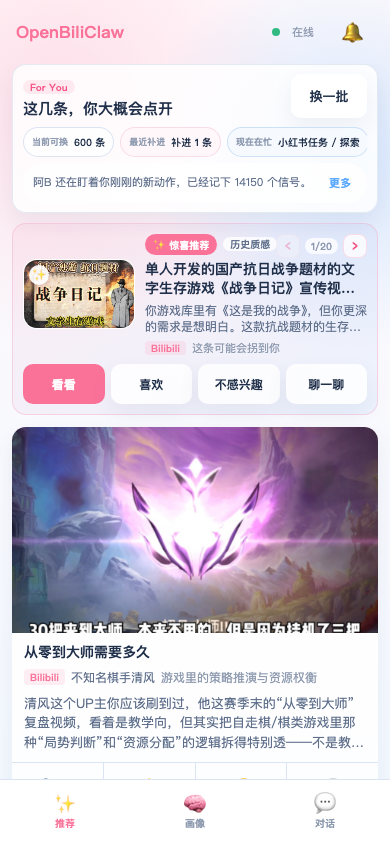
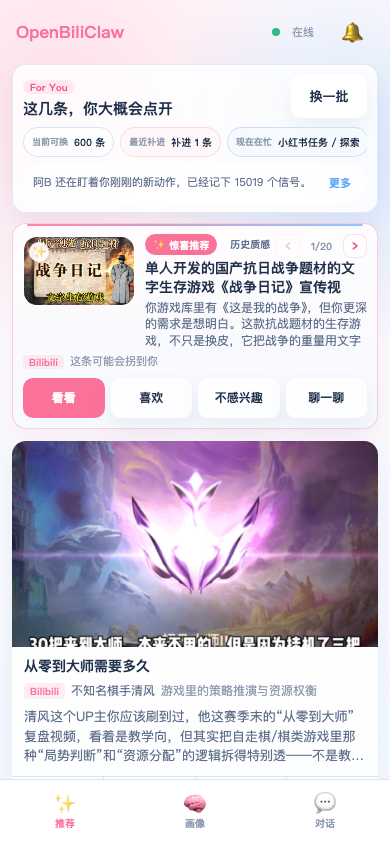
fix: wrap mobile delight reason around cover

Changed region(s): [[0.0308, 0.1848, 0.9846, 0.9242]]

diff --git a/src/openbiliclaw/web/css/app.css b/src/openbiliclaw/web/css/app.css
@@ -406,14 +406,20 @@ body {
 }
 
 .delight-compact {
-  display: grid;
-  grid-template-columns: auto minmax(0, 1fr);
-  gap: 10px;
-  align-items: center;
+  display: block;
+  min-height: 76px;
+}
+
+.delight-compact::after {
+  content: "";
+  display: block;
+  clear: both;
 }
 
 .delight-thumb {
   width: 112px;
+  float: left;
+  margin: 2px 10px 6px 0;
   position: relative;
   overflow: hidden;
   border-radius: 14px;
@@ -468,14 +474,6 @@ body {
   display: block;
 }
 
-.delight-copy {
-  min-width: 0;
-  display: flex;
-  flex-direction: column;
-  justify-content: center;
-  gap: 5px;
-}
-
 .delight-kicker-line {
   display: flex;
   align-items: center;
@@ -483,6 +481,7 @@ body {
   min-width: 0;
   padding-right: 78px;
   flex-wrap: wrap;
+  margin-bottom: 4px;
 }
 
 .delight-tag {
@@ -543,10 +542,9 @@ body {
   font-size: 14px;
   font-weight: 800;
   line-height: 1.35;
-  display: -webkit-box;
-  -webkit-line-clamp: 2;
-  -webkit-box-orient: vertical;
+  max-height: 2.7em;
   overflow: hidden;
+  margin-bottom: 3px;
 }
 
 .delight-hook-badge {
@@ -570,10 +568,9 @@ body {
   font-size: 12px;
   color: var(--text-secondary);
   line-height: 1.4;
-  display: -webkit-box;
-  -webkit-line-clamp: 2;
-  -webkit-box-orient: vertical;
+  max-height: 4.2em;
   overflow: hidden;
+  margin-top: 2px;
 }
 
 .delight-meta {
@@ -584,6 +581,7 @@ body {
   color: var(--text-muted);
   font-size: 11px;
   line-height: 1.2;
+  margin-top: 5px;
 }
 
 .delight-meta > span:last-child {
@@ -619,12 +617,9 @@ body {
 }
 
 @media (max-width: 360px) {
-  .delight-compact {
-    gap: 8px;
-  }
-
   .delight-thumb {
     width: 96px;
+    margin-right: 8px;
   }
 
   .delight-corner-nav {
@@ -638,7 +633,7 @@ body {
   }
 
   .delight-reason {
-    -webkit-line-clamp: 1;
+    max-height: 2.8em;
   }
 }
 
@@ -1225,11 +1220,27 @@ body {
 /* ── Delight Tray ─────────────────────────────────────────── */
 .delight-tray {
   position: relative;
-  background: linear-gradient(135deg, rgba(251,114,153,0.08), rgba(90,169,255,0.08));
-  border: 1px solid var(--line-strong);
+  background:
+    linear-gradient(180deg, rgba(255, 252, 254, 0.96), rgba(246, 250, 255, 0.9)),
+    linear-gradient(135deg, rgba(251,114,153,0.1), rgba(90,169,255,0.08));
+  border: 1px solid rgba(251, 114, 153, 0.34);
   border-radius: 14px;
   padding: 10px;
   margin-bottom: 12px;
+  box-shadow:
+    inset 0 1px 0 rgba(255, 255, 255, 0.88),
+    0 10px 24px rgba(251, 114, 153, 0.08);
+}
+
+.delight-tray::before {
+  content: "";
+  position: absolute;
+  top: 0;
+  left: 14px;
+  right: 14px;
+  height: 2px;
+  border-radius: 999px;
+  background: linear-gradient(90deg, rgba(251, 114, 153, 0.85), rgba(90, 169, 255, 0.65));
 }
 
 .delight-actions {

diff --git a/src/openbiliclaw/web/js/views/recommend.js b/src/openbiliclaw/web/js/views/recommend.js
@@ -218,17 +218,15 @@ function renderDelightTray() {
     ` : ""}
     <div class="delight-compact">
       ${coverHtml}
-      <div class="delight-copy">
-        <div class="delight-kicker-line">
-          <span class="delight-tag">\u2728 \u60CA\u559C\u63A8\u8350</span>
-          ${d.delight_hook ? `<span class="delight-hook-badge">${esc(d.delight_hook)}</span>` : ""}
-        </div>
-        <div class="delight-title">${esc(d.title)}</div>
-        ${reasonText ? `<div class="delight-reason">${esc(reasonText)}</div>` : ""}
-        <div class="delight-meta">
-          <span class="card-source" data-source="${d.source_platform}">${esc(getSourceLabel(d.source_platform))}</span>
-          ${uiState.score_label ? `<span>${esc(uiState.score_label)}</span>` : ""}
-        </div>
+      <div class="delight-kicker-line">
+        <span class="delight-tag">\u2728 \u60CA\u559C\u63A8\u8350</span>
+        ${d.delight_hook ? `<span class="delight-hook-badge">${esc(d.delight_hook)}</span>` : ""}
+      </div>
+      <div class="delight-title">${esc(d.title)}</div>
+      ${reasonText ? `<div class="delight-reason">${esc(reasonText)}</div>` : ""}
+      <div class="delight-meta">
+        <span class="card-source" data-source="${d.source_platform}">${esc(getSourceLabel(d.source_platform))}</span>
+        ${uiState.score_label ? `<span>${esc(uiState.score_label)}</span>` : ""}
       </div>
     </div>`;
 

diff --git a/docs/changelog.md b/docs/changelog.md
@@ -15,7 +15,7 @@
 - 移动 Web 推荐页头部对齐插件：新增 `For You / 这几条，你大概会点开` 紧凑 header，把「换一批」放回首屏主操作位，池状态三枚 chip 改为「当前可换 / 最近补进 / 现在在忙」，活动状态降级为 header 内辅助行，「加载更多」移动到推荐列表底部。
 - 移动 Web 推荐页头部再次压缩移动端状态区：三枚池状态从大卡片改成横向轻量 pill，活动摘要改成单行；`xhs-extension-*`、`dy-plugin-*`、`yt-*` 等内部来源名会在移动端显示为用户可读的中文短标签。README 移动端预览说明同步使用「不感兴趣」文案。
 - 移动 Web 惊喜推荐改为接近插件的 compact banner：封面从全宽大图收敛为左侧小缩略图，右侧展示标签、标题、理由和来源，翻页控件并入标签行，减少首屏占用并保留「看看 / 喜欢 / 不感兴趣 / 聊一聊」动作。
-- 移动 Web 惊喜推荐 compact banner 恢复独立推荐原因描述：`delight_hook` 作为短标签展示，`delight_reason` 作为两行说明展示，避免只剩标题和 hook 看不到推荐理由。
+- 移动 Web 惊喜推荐 compact banner 恢复独立推荐原因描述：`delight_hook` 作为短标签展示，`delight_reason` 围绕左侧头图排版，避免只剩标题和 hook 看不到推荐理由，同时让这张卡明显区别于普通推荐卡。
 - 移动 Web 画像页补齐与插件一致的画像细节：MBTI 显示可信度，使用场景显示“模式”，内容口味把 `long/slow` 等 raw 值本地化为中文标签，认知更新卡片保留后端 `context_line` 与 `source_label`。
 - 移动 Web 对话页对齐插件主聊天会话：读取和提交都使用 `session=popup&scope=chat`，聊天回复完成后会刷新画像和活动流；消息 overlay 内的兴趣探测动作改为「喜欢 / 不喜欢 / 多聊聊」，惊喜推荐动作补齐「喜欢」，聊天输入框固定在底部并以两行高度起步，保留更多历史上下文可视空间。
 - 新增移动 Web 原生重设计 spec，明确 `/m/` 与浏览器插件在推荐、画像、对话、消息和 delight 工作流上的功能对齐范围，以及手机端独立信息架构。

diff --git a/docs/mobile-web-spec.md b/docs/mobile-web-spec.md
@@ -171,7 +171,7 @@ if web_dir.is_dir():
 移动端会在 `view-models.js` 中做最小字段适配：
 - 推荐池状态读取 `/api/runtime-status` 的 `pool_available_count`、`last_replenished_count`、`recent_pool_topics`，再映射成推荐页三枚 chip 使用的 `pool_size`、`recent_replenish`、`current_topic`。
 - 推荐页头部用 `getMobileRecommendationHeaderState()` 生成插件语义一致的标题、首屏「换一批」、三枚池状态 chip 和活动辅助行；移动端把池状态压成横向轻量 pill，并把 `xhs-extension-*` / `dy-plugin-*` / `yt-*` 等内部来源名显示为用户可读短标签；「加载更多」保留为列表底部显式续页入口。
-- 惊喜推荐沿用插件 compact banner 思路：左侧小缩略图、右侧标签 / 标题 / 理由 / 来源，翻页控件并入标签行，动作区仍保持「看看 / 喜欢 / 不感兴趣 / 聊一聊」。
+- 惊喜推荐沿用插件 compact banner 思路：左侧小缩略图、标签 / 标题 / 理由 / 来源围绕头图形成 featured card，翻页控件放在右上角，动作区仍保持「看看 / 喜欢 / 不感兴趣 / 聊一聊」。
 - MBTI 维度兼容后端对象形态（如 `EI: { pole: "I", strength: 0.8 }`）和旧数组形态，统一映射为 `{ left, right, score }` 后再渲染。
 - MBTI 会保留后端 `confidence` 显示为“可信度”；内容口味将 `long/slow` 等 raw 枚举映射为“长视频 / 慢节奏”等中文标签；使用场景会显示 `session_type` 为“模式”。
 - 认知更新卡片会保留后端 `context_line` 与 `source_label`，即使前端已做过一次 normalize 后再次渲染，也不回退成泛化上下文。